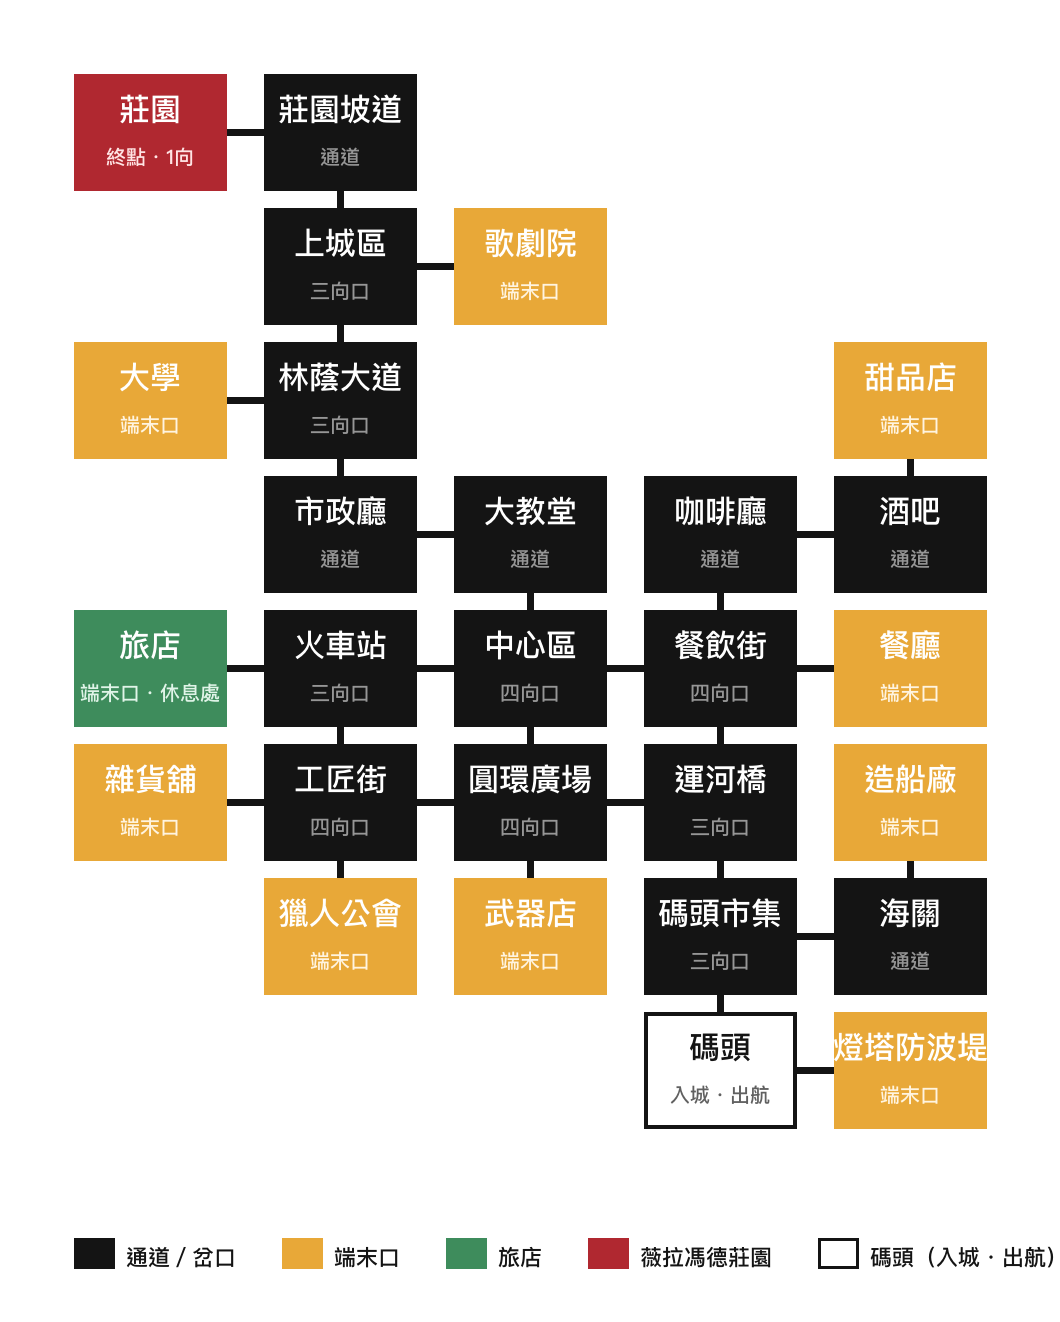
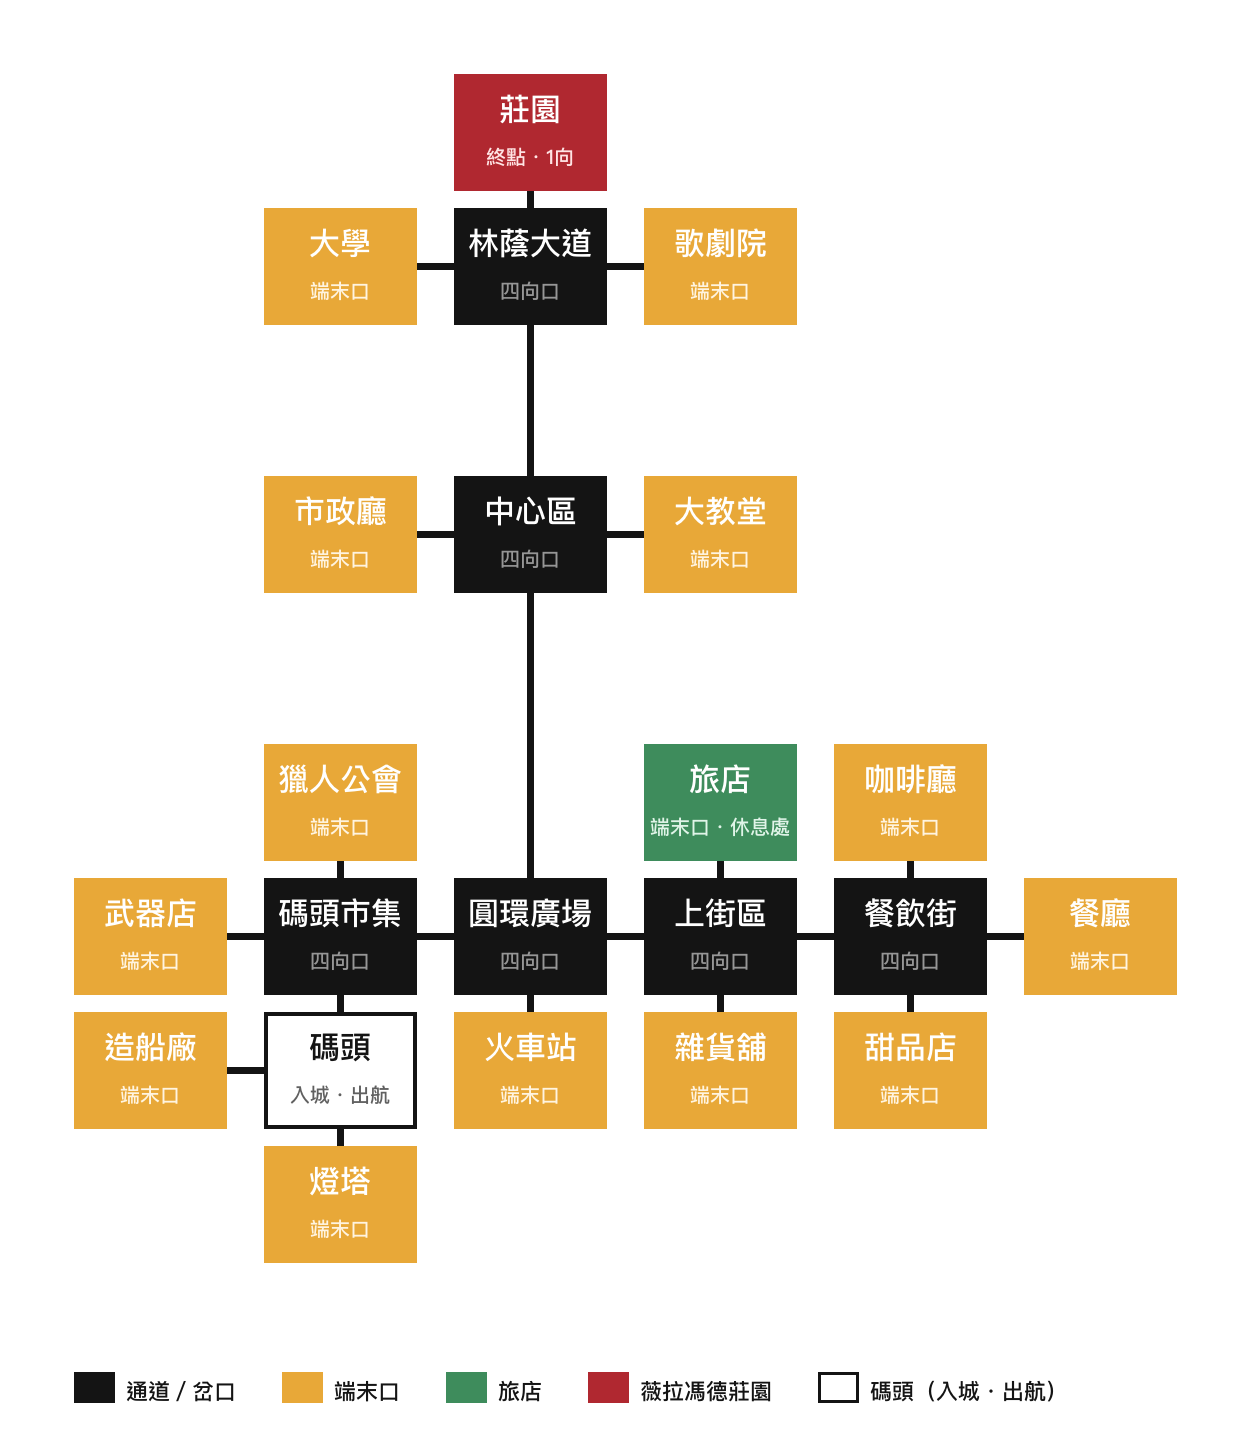
docs(薇拉馮德港): 拓樸 v2 —— 帝都加強版（圓環廣場＋4 樞紐＋林蔭大道往莊園），22 格・無環；店一律室內

diff --git a/tools/map_verafond_draft.py b/tools/map_verafond_draft.py
@@ -13,7 +13,8 @@ tools/map_verafond_draft.py —— 薇拉馮德港（`verafond`）城鎮的**拓
 ⚠ 憲法 ver -907：拓樸是 Ray 的設計，這是提案。
 ⚠ 方位照飛行地圖上 Ray 的手繪平面圖（`flight/city/velafonte_plan.webp`）：西北山丘上的城堡＝莊園、正中大教堂、
   東南港灣、下半圓環廣場。`up`＝北＝列數變小。
-⚠ 城鎮不是迷宮：同向直線上限放寬到 4（主大道本來就是直的；dunmor 那條 ≤2 是給迷宮的）。
+⚠ Ray（同日再改）：「薇拉馮德就是帝都加強版，不要做成迷宮」⇒ 骨架照帝都：中央廣場＋區塊樞紐、每個樞紐掛店，樹狀、無環；
+  帝都是 1 廣場＋3 樞紐，這裡是 1 廣場＋4 樞紐（中心區／碼頭市集／上街區／餐飲街）＋一條往莊園的林蔭大道。同向直線不設限（帝都主街本來就是一條橫貫的直線）。
 輸出：`resources/map/_layout_verafond.png`
 """
 import os, itertools
@@ -23,42 +24,37 @@ from PIL import Image, ImageDraw
 ROOT = os.path.dirname(os.path.dirname(os.path.abspath(__file__)))
 
 NODES = {
- 'harbor':(6,8,'碼頭','gate'),
- 'lighthouse':(8,8,'燈塔防波堤','end'),
- 'portmarket':(6,7,'碼頭市集','pass'),
- 'customs':(8,7,'海關','pass'),
- 'shipyard':(8,6,'造船廠','end'),
- 'canalbridge':(6,6,'運河橋','pass'),
  'square':(4,6,'圓環廣場','pass'),
- 'gunstore':(4,7,'武器店','end'),
- 'craftrow':(2,6,'工匠街','pass'),
- 'grocery':(0,6,'雜貨舖','end'),
- 'guild':(2,7,'獵人公會','end'),
- 'station':(2,5,'火車站','pass'),
- 'inn':(0,5,'旅店','rest'),
- 'midtown':(4,5,'中心區','pass'),
- 'tavern':(6,5,'餐飲街','pass'),
- 'restaurant':(8,5,'餐廳','end'),
- 'cafe':(6,4,'咖啡廳','pass'),
- 'bar':(8,4,'酒吧','pass'),
- 'dessert':(8,3,'甜品店','end'),
- 'cathedral':(4,4,'大教堂','pass'),
- 'cityhall':(2,4,'市政廳','pass'),
- 'avenue':(2,3,'林蔭大道','pass'),
- 'university':(0,3,'大學','end'),
- 'uptown':(2,2,'上城區','pass'),
- 'opera':(4,2,'歌劇院','end'),
- 'manorroad':(2,1,'莊園坡道','pass'),
- 'manor':(0,1,'莊園','goal'),
+ 'station':(4,7,'火車站','end'),
+ 'midtown':(4,3,'中心區','pass'),
+ 'cityhall':(2,3,'市政廳','end'),
+ 'cathedral':(6,3,'大教堂','end'),
+ 'avenue':(4,1,'林蔭大道','pass'),
+ 'university':(2,1,'大學','end'),
+ 'opera':(6,1,'歌劇院','end'),
+ 'manor':(4,0,'莊園','goal'),
+ 'portmarket':(2,6,'碼頭市集','pass'),
+ 'gunstore':(0,6,'武器店','end'),
+ 'guild':(2,5,'獵人公會','end'),
+ 'harbor':(2,7,'碼頭','gate'),
+ 'shipyard':(0,7,'造船廠','end'),
+ 'lighthouse':(2,8,'燈塔','end'),
+ 'uptown':(6,6,'上街區','pass'),
+ 'inn':(6,5,'旅店','rest'),
+ 'grocery':(6,7,'雜貨舖','end'),
+ 'tavern':(8,6,'餐飲街','pass'),
+ 'cafe':(8,5,'咖啡廳','end'),
+ 'dessert':(8,7,'甜品店','end'),
+ 'restaurant':(10,6,'餐廳','end'),
 }
 EDGES = [
- ('harbor','lighthouse'),('harbor','portmarket'),('portmarket','customs'),('customs','shipyard'),
- ('portmarket','canalbridge'),('canalbridge','square'),('canalbridge','tavern'),
- ('square','gunstore'),('square','midtown'),('square','craftrow'),
- ('craftrow','grocery'),('craftrow','guild'),('craftrow','station'),('station','inn'),('station','midtown'),
- ('midtown','tavern'),('midtown','cathedral'),('tavern','restaurant'),('tavern','cafe'),('cafe','bar'),('bar','dessert'),
- ('cathedral','cityhall'),('cityhall','avenue'),('avenue','university'),('avenue','uptown'),
- ('uptown','opera'),('uptown','manorroad'),('manorroad','manor'),
+ ('square','midtown'),('square','portmarket'),('square','uptown'),('square','station'),
+ ('midtown','cityhall'),('midtown','cathedral'),('midtown','avenue'),
+ ('avenue','university'),('avenue','opera'),('avenue','manor'),
+ ('portmarket','gunstore'),('portmarket','guild'),('portmarket','harbor'),
+ ('harbor','shipyard'),('harbor','lighthouse'),
+ ('uptown','inn'),('uptown','grocery'),('uptown','tavern'),
+ ('tavern','cafe'),('tavern','dessert'),('tavern','restaurant'),
 ]
 REST_NOTE = '旅店'
 CW, CH, BW, BH = 190, 134, 152, 116
@@ -99,7 +95,7 @@ def main():
     for (r, c0, c1), (c, r0, r1) in itertools.product(H, V):
         if c0 < c < c1 and r0 < r < r1: raise SystemExit('✗ 列 %d 的橫線與欄 %d 的直線交叉' % (r, c))
     # ⚠⚠ 同向直線 ≤ 2 段（Ray：「同一方向不要有三次以上的直線」）
-    MAXRUN = 4
+    MAXRUN = 6
     for k in NODES:
         for dd in OPP:
             if nb.get(k, {}).get(OPP[dd]): continue          # 只從一段的起點量

diff --git a/resources/map/_verafond_spec.md b/resources/map/_verafond_spec.md
@@ -1,50 +1,54 @@
-# 薇拉馮德港（`verafond`）— 城鎮拓樸提案（2026-09-26，Ray 交辦）
+# 薇拉馮德港（`verafond`）— 城鎮拓樸提案 v2（2026-09-26，Ray 交辦；帝都加強版）
 
 > Ray：「生成薇拉馮德城鎮拓樸 要有大教堂 碼頭 薇拉馮德莊園 沒有舊街區 舊街區是碼頭市集 該有的店全都要有 遊戲內的最大城鎮」
 
 ⚠ 憲法 ver -907：拓樸是 Ray 的設計，**這是提案**。點頭之後程式端搬 `town.js`、`map_layout.py` 補 `POS`、`tools/map_verafond_draft.py` 回收。
 佈局圖 `resources/map/_layout_verafond.png`（產生器自檢：只連同欄同列、不交叉、≤4 向、連通；城鎮不是迷宮，同向直線上限放寬到 4）。
 
+## 〇、Ray 的修正（同日）：「薇拉馮德就是帝都加強版，不要做成迷宮」
+第一版（27 格・2 環）作廢。骨架照**帝都**：帝都＝攝政王廣場＋三個區塊樞紐（中心區／舊街區／上街區）、每個樞紐掛店、兩層走到底；
+薇拉馮德＝**圓環廣場＋四個區塊樞紐（中心區／碼頭市集／上街區／餐飲街）＋往北山丘莊園的林蔭大道**，樹狀、無環。
+
 ## 一、規模與方位
-- **27 格・28 邊・2 環** —— 遊戲內最大（目前最大是東方泊地／雪都的 16 格）。
-- 方位照飛行地圖上 Ray 的手繪平面圖 `flight/city/velafonte_plan.webp`：**西北山丘上的城堡＝薇拉馮德莊園**、**正中大教堂**、**東南港灣**、下半一個**圓環廣場**、城裡有運河。
-- 入城＝**碼頭**（船水空兩用、著水靠岸；同時是出航口 `sail`）。碼頭→莊園最短 10 步。
+- **22 格・21 邊・0 環**（帝都 12 格；目前最大的東泊／雪都 16 格）。碼頭→最遠一格 5 步。
+- 方位照 `flight/city/velafonte_plan.webp`：北＝山丘莊園、中＝大教堂所在的中心區、南側是港（碼頭市集往下到碼頭與燈塔）。
+- 入城＝**碼頭**（船水空兩用、著水靠岸；同時是出航口 `sail`）。
 
-## 二、逐格
+## 二、逐格（對照帝都：同名的格子做同樣的事）
 
-| id | 中文 | 出口 | 一行特徵 | 營業／時段（照 §5 的差分規則） |
-|---|---|---|---|---|
-| `harbor` | 碼頭（入城・出航） | ↑→ | 帝國最大的商港：石砌碼頭、起重機、成排的蒸汽帆船與我們的船；`sail` 在這裡 | 室外四差分 |
-| `lighthouse` | 燈塔防波堤（端末） | ← | 長長的防波堤盡頭一座燈塔，海天一線 —— 景點／約會點 | 室外四差分 |
-| `portmarket` | **碼頭市集**（取代舊街區） | ↓↑→ | 港邊的露天市集：魚攤、帆布棚、木箱、吊著的網；舊倉庫改的攤位 | 室外四差分 |
-| `customs` | 海關 | ←↑ | 海關大樓與貨物檢查場，堆著查扣的走私箱 | 室外四差分 |
-| `shipyard` | 造船廠（端末） | ↓ | 船塢與龍骨架、鐵殼汽船正在造 | 室外四差分 |
-| `canalbridge` | 運河橋 | ↓←↑ | 運河上的石拱橋、平底船 —— 港區與市中心的交界 | 室外四差分 |
-| `square` | 圓環廣場 | ↑↓←→ | 平面圖下半那個圓環：中央噴泉／紀念碑、路面電車？（年代 1900） | 室外四差分 |
-| `gunstore` | 武器店（端末） | ↑ | 店內 | `[8,17]` → day 一張 |
-| `craftrow` | 工匠街 | ↑↓←→ | 鐘錶、皮件、鐵匠的招牌（剪影）—— 連著雜貨舖、公會、火車站 | 室外四差分 |
-| `grocery` | 雜貨舖（端末） | → | 店內 | `[8,17]` → day 一張 |
-| `guild` | 賞金獵人公會（端末） | ↑ | 店內（懸賞榜） | `[8,17]` → day 一張 |
-| `station` | 火車站 | ←→↓ | 鐵骨玻璃頂的車站（飛行地圖上本來就有薇拉馮德↔帝都的鐵路） | 室外四差分 |
-| `inn` | 旅店（端末） | → | 大廳（四扇伙伴門／兩顆行動鈕，構圖規矩同其他旅店） | **四差分** |
-| `midtown` | 中心區 | ↑↓←→ | 百貨商店與咖啡座的大街 —— 城的正中 | 室外四差分 |
-| `tavern` | 餐飲街 | ↑↓←→ | 一條街四家店（§6.5.4.2）：酒吧／餐廳／咖啡廳／甜品店各有一格 | 室外四差分 |
-| `restaurant` | 餐廳（端末） | ← | 19 世紀一般餐廳（§5：不可高檔） | `[8,17]` → day 一張 |
-| `cafe` | 咖啡廳 | ↓→ | 亮而輕的咖啡廳 | 看 `hours` 定（Ray 未定） |
-| `bar` | 酒吧 | ←↑ | 暗而暖的酒吧 | `[8,24]` → day／dusk／night 三張 |
-| `dessert` | 甜品店（端末） | ↓ | 甜品店 | 看 `hours` 定 |
-| `cathedral` | **大教堂** | ↓← | 城的中心：雙塔哥德大教堂（平面圖正中那一座） | 室外四差分（內部另開？等 Ray） |
-| `cityhall` | 市政廳 | →↑ | 帝國總督府／市政廳 | 室外四差分 |
-| `avenue` | 林蔭大道 | ↓←↑ | 通往上城的林蔭大道，兩側豪宅 | 室外四差分 |
-| `university` | 大學（端末） | → | 大學中庭 | 室外四差分 |
-| `uptown` | 上城區 | ↓→↑ | 貴族與富商的住宅區 | 室外四差分 |
-| `opera` | 歌劇院（端末） | ← | 歌劇院正面（1900 年的大都會才有的東西）—— 景點／約會點 | 室外四差分 |
-| `manorroad` | 莊園坡道 | ↓← | 往西北山丘的坡道，看得到山頂的城堡 | 室外四差分 |
-| `manor` | **薇拉馮德莊園**（端末） | → | 山丘上的城堡莊園（平面圖左上角）—— 家徽＝「薇拉馮德家的紋章」那一個 | 室外四差分（內部另開？等 Ray） |
+| id | 中文 | 出口 | 對照帝都 | 一行特徵 | 差分 |
+|---|---|---|---|---|---|
+| `square` | 圓環廣場 | ↑←→↓ | 攝政王廣場 | 平面圖下半的圓環、中央噴泉／紀念碑 | 室外四差分 |
+| `station` | 火車站（端末） | ↑ | —（新） | 鐵骨玻璃頂車站（飛行地圖本來就有往帝都的鐵路） | 室外四差分 |
+| `midtown` | 中心區 | ↓←→↑ | 中心區 | 百貨與咖啡座的大街 | 室外四差分 |
+| `cityhall` | 市政廳（端末） | → | 行政廳 | 帝國總督府 | 室外四差分 |
+| `cathedral` | **大教堂**（端末） | ← | 大教堂 | 平面圖正中的雙塔哥德大教堂 | 室外四差分 |
+| `avenue` | 林蔭大道 | ↓←→↑ | —（新） | 往北山丘的林蔭大道、兩側豪宅 | 室外四差分 |
+| `university` | 大學（端末） | → | —（新） | 大學中庭 | 室外四差分 |
+| `opera` | 歌劇院（端末） | ← | —（新） | 歌劇院正面（景點／約會點） | 室外四差分 |
+| `manor` | **薇拉馮德莊園**（端末） | ↓ | —（新） | 山丘上的城堡莊園（平面圖左上），家徽＝「薇拉馮德家的紋章」 | 室外四差分 |
+| `portmarket` | **碼頭市集** | →←↑↓ | 舊街區 | 取代舊街區：港邊露天市集、魚攤、帆布棚、舊倉庫改的攤位 | 室外四差分 |
+| `gunstore` | 武器店（端末） | → | 武器店 | **店內** | day 一張 |
+| `guild` | 賞金獵人公會（端末） | ↓ | 賞金獵人公會 | **店內**（懸賞榜） | day 一張 |
+| `harbor` | **碼頭**（入城・出航） | ↑←↓ | 船塢 | 帝國最大商港：石砌碼頭、起重機、蒸汽帆船 | 室外四差分 |
+| `shipyard` | 造船廠（端末） | → | —（新） | 船塢與龍骨架、鐵殼汽船 | 室外四差分 |
+| `lighthouse` | 燈塔（端末） | ↑ | —（新） | 防波堤盡頭的燈塔（景點／約會點） | 室外四差分 |
+| `uptown` | 上街區 | ←→↑↓ | 上街區 | 住宅與商店街 | 室外四差分 |
+| `inn` | 旅店（端末） | ↓ | 旅店 | 大廳（四扇伙伴門／兩顆行動鈕，同其他旅店） | **四差分** |
+| `grocery` | 雜貨舖（端末） | ↑ | 雜貨舖 | **店內** | day 一張 |
+| `tavern` | 餐飲街 | ←↑↓→ | 餐飲街 | 一條街；**預設那一家是酒吧**（`DINE.fallback`，同帝都） | 室外四差分；酒吧室內三差分 |
+| `cafe` | 咖啡廳（端末） | ↓ | （帝都是餐飲街的分店場景） | **店內** | 看 `hours` |
+| `dessert` | 甜品店（端末） | ↑ | 同上 | **店內** | 看 `hours` |
+| `restaurant` | 餐廳（端末） | ← | 同上 | **店內**，19 世紀一般餐廳（§5） | day 一張 |
+
+- Ray：「只要是個店的都要室內」→ 上表標「店內」的一律畫室內（武器店、公會、雜貨舖、旅店、餐飲街四家）。
+- 餐飲街的四家店：這一版做成**餐飲街樞紐＋三格店（咖啡廳／甜品店／餐廳）、酒吧＝餐飲街本身**；
+  若要照帝都「一格＋`dining.scenes` 換店」的作法，把那三格收回成 scenes 即可（拓樸少 3 格）。
 
 ## 三、等 Ray 定的
 1. 拓樸本身（格數、哪幾格要、位置）。
 2. **咖啡廳／甜品店的營業時間**（決定差分張數；§5 目前只點名餐廳／酒吧／旅店）。
 3. 大教堂、薇拉馮德莊園要不要有**內部**（另開一格或一張子圖）。
+3.5 餐飲街：三格店（這一版）還是帝都式 `dining.scenes`。
 4. 圓環廣場有沒有路面電車（1900 年的大城有，但會影響整批背景的畫法）。
 5. 小地圖：拓樸點頭後走 `tools/map_compose.py`（27 格圖示表，照羅賽爾廢城的作法）。
